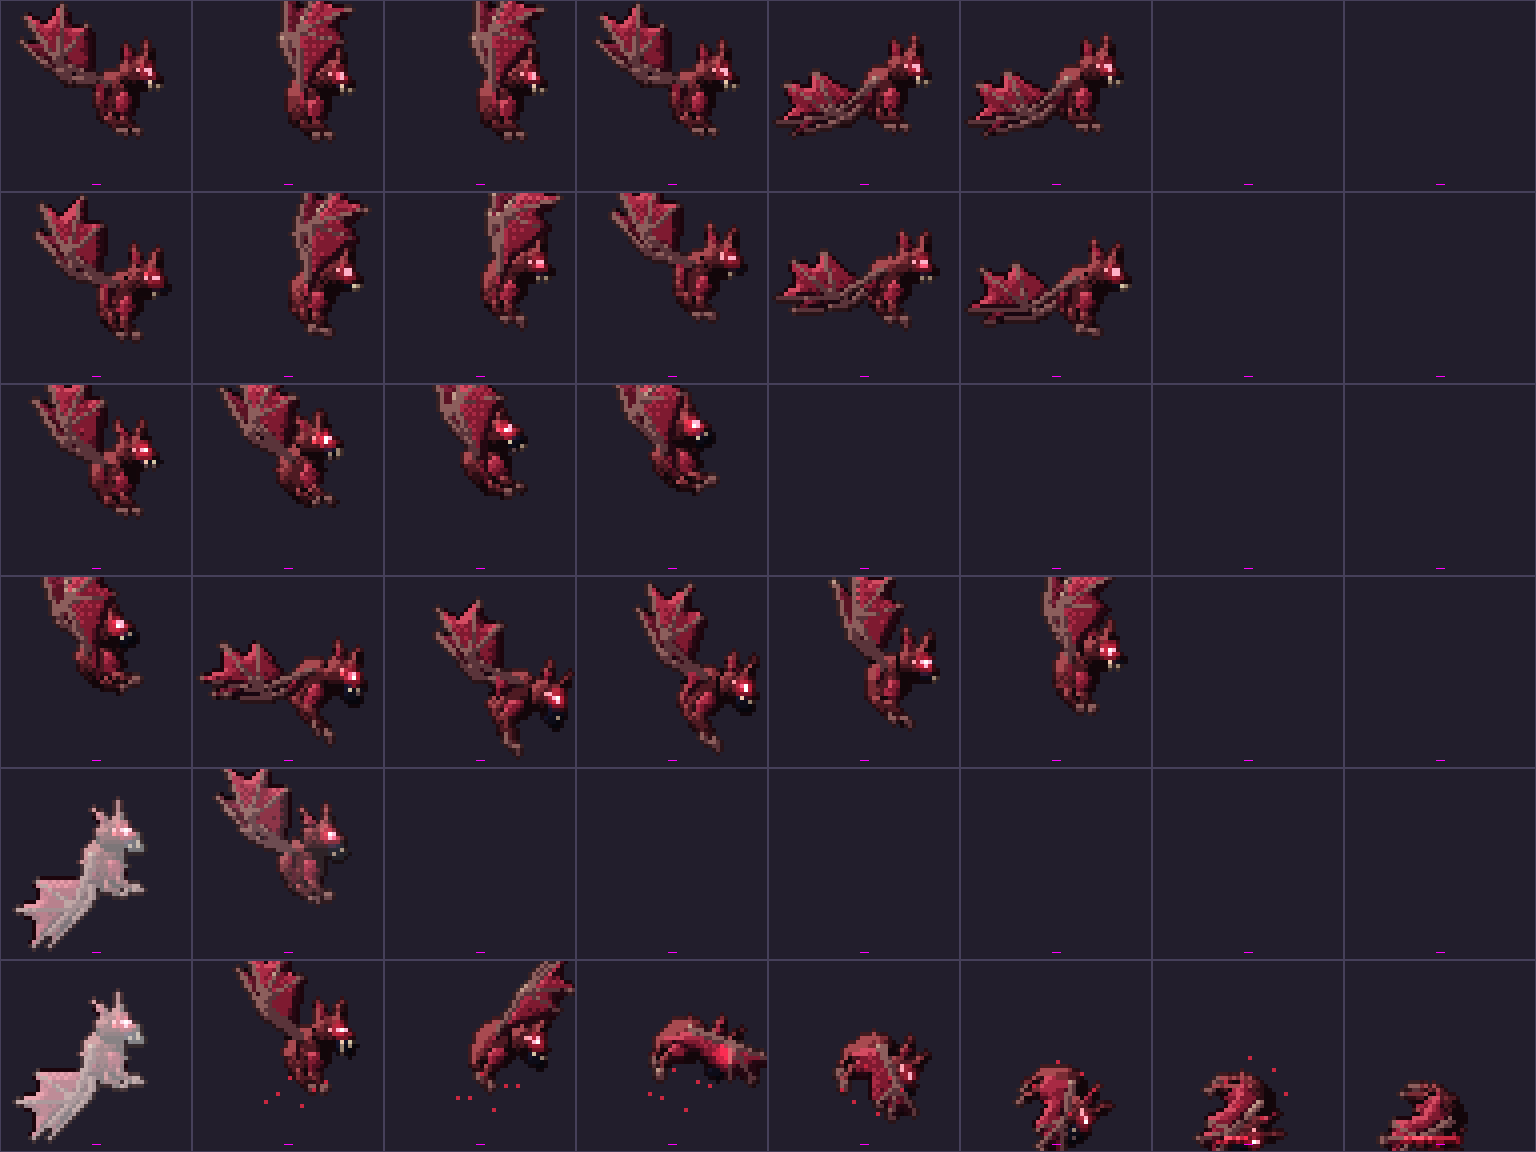
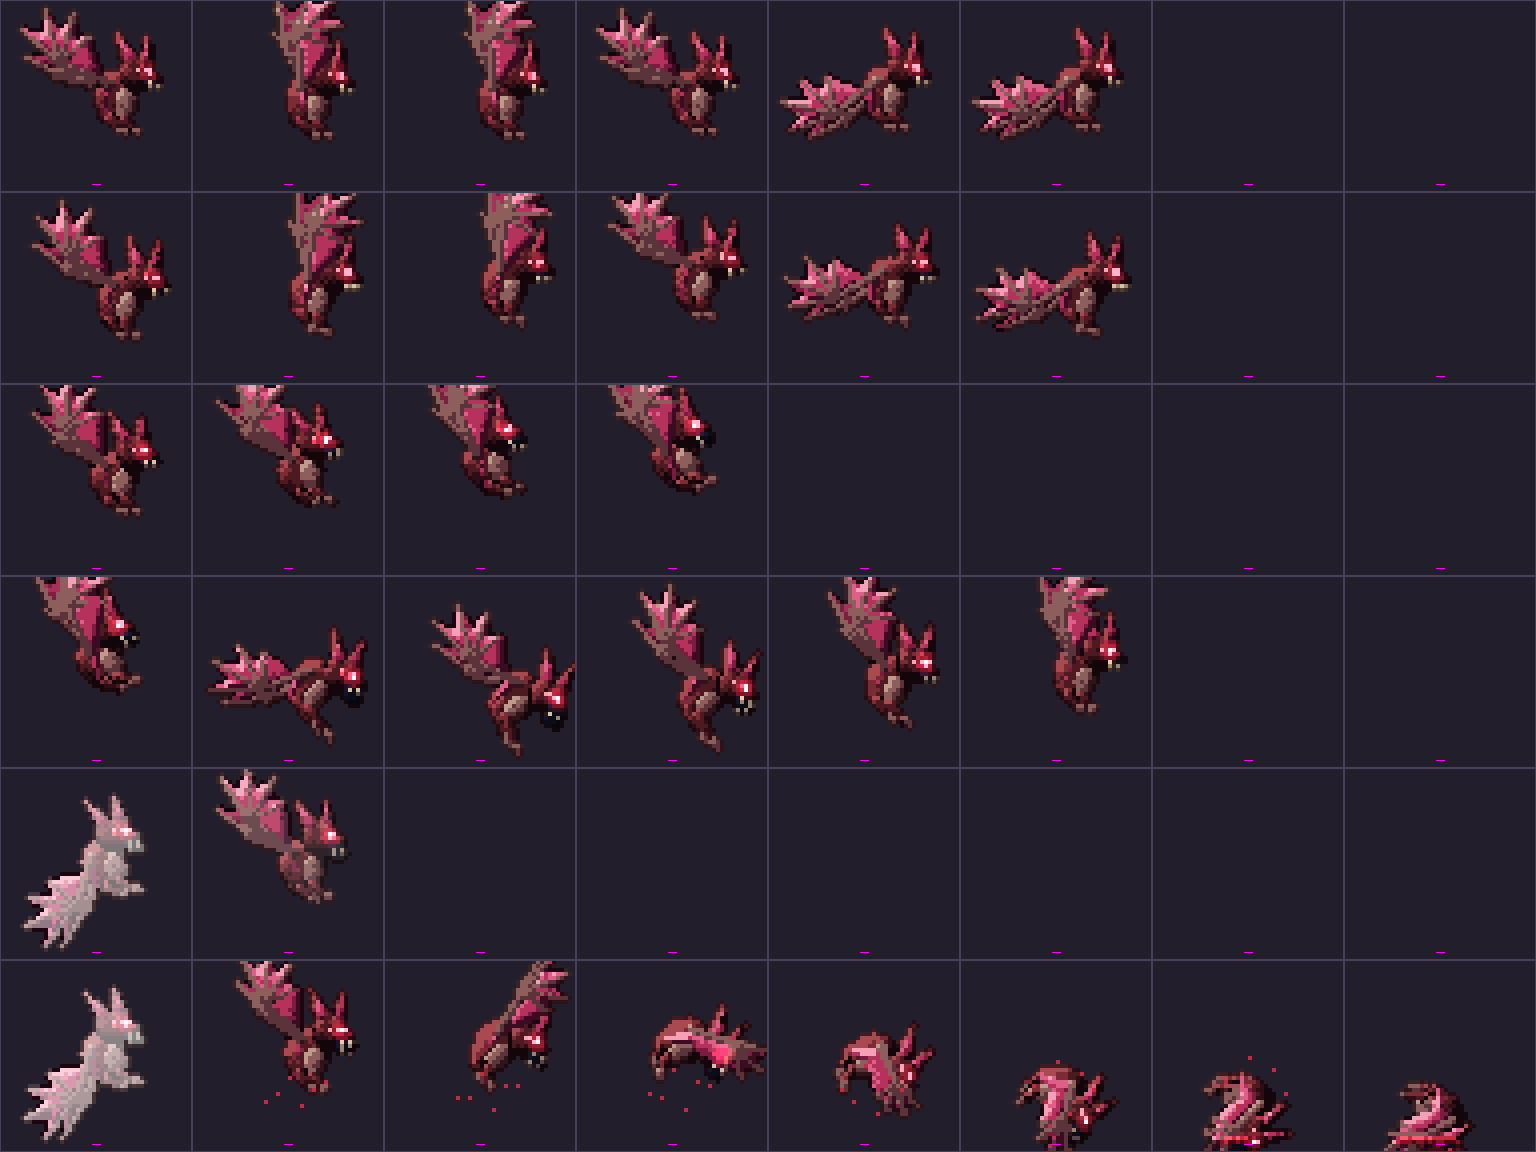
Enemigos (piloto): murcielago con alas grandes de 4 dedos y membrana clara, orejas y colmillos
Claude-Session: https://claude.ai/code/session_011eeWNo3MRZcztybaatA5Az

diff --git a/tools/art_enemies/en_sangre.py b/tools/art_enemies/en_sangre.py
@@ -348,8 +348,8 @@ def death_bruja_s(c, i, n):
 
 # ------------------------------------------------------------------ MURCIELAGO
 BATF = Mat(ramp=['#12060a', '#2c0e14', '#4e1a22', '#7a2c34', '#a84a50'], bevel=2.4, tex=0.35, ts=1.2, seed=121, bias=0.5)
-BATM = Mat(ramp=['#240812', '#4e0f20', '#7e1a30', '#a82a44', '#d44c62'], bevel=1.4, dith=0.5, outcol='#1c050c')
-BATM_B = Mat(ramp=['#180610', '#380c18', '#5a1424', '#80203a'], bevel=1.4, dith=0.5, outcol='#120409')
+BATM = Mat(ramp=['#3a0c22', '#7a1c40', '#b4325c', '#de5f88', '#f6a0b8'], bevel=1.8, dith=0.35, outcol='#1c050c')
+BATM_B = Mat(ramp=['#240814', '#4e1228', '#7c2040', '#a63058'], bevel=1.6, dith=0.4, outcol='#120409')
 BATBONE = Mat(ramp=['#2c1418', '#5a343a', '#8c5e5c', '#c09a8a'], bevel=0.8, dith=0.2)
 
 
@@ -371,29 +371,28 @@ def mur_pose(a, i, n):
 
 
 def bat_wing(c, S, wang, L1, L2, mem, bone, sweep):
+    """Ala de murcielago (rediseno fase 3): brazo + 4 dedos con membrana festoneada profunda y garra en el pulgar."""
     W = (S[0] + L1 * math.cos(wang), S[1] + L1 * math.sin(wang))
     tips = []
-    for off in (-0.35, 0.35, 0.95):
+    for off, sc in ((-0.55, 1.0), (0.0, 1.05), (0.55, 0.95), (1.1, 0.72)):
         ang = wang + sweep + off
-        tips.append((W[0] + L2 * math.cos(ang) * (1.0 if off < 0.9 else 0.8), W[1] + L2 * math.sin(ang) * (1.0 if off < 0.9 else 0.8)))
-    lowp = (S[0] - 1, S[1] + 8)
-    # festoneado
+        tips.append((W[0] + L2 * sc * math.cos(ang), W[1] + L2 * sc * math.sin(ang)))
+    lowp = (S[0] - 1.5, S[1] + 9)
     pts = [S, W, tips[0]]
     for k in range(3):
-        a_, b_ = tips[k], tips[min(k + 1, 2)] if k < 2 else lowp
-        if k < 2:
-            mid = ((tips[k][0] + tips[k + 1][0]) / 2, (tips[k][1] + tips[k + 1][1]) / 2)
-            mid = (lerp(mid[0], W[0], 0.30), lerp(mid[1], W[1], 0.30))
-            pts += [mid, tips[k + 1]]
-    mid = ((tips[2][0] + lowp[0]) / 2, (tips[2][1] + lowp[1]) / 2)
-    pts += [(lerp(mid[0], W[0] * 0.5 + S[0] * 0.5, 0.35), lerp(mid[1], W[1] * 0.3 + S[1] * 0.7, 0.35)), lowp]
-    with c.part(mem, line=0.0, bevel=1.6) as p:
+        mid = ((tips[k][0] + tips[k + 1][0]) / 2, (tips[k][1] + tips[k + 1][1]) / 2)
+        mid = (lerp(mid[0], W[0], 0.38), lerp(mid[1], W[1], 0.38))      # festones mas profundos
+        pts += [mid, tips[k + 1]]
+    mid = ((tips[3][0] + lowp[0]) / 2, (tips[3][1] + lowp[1]) / 2)
+    pts += [(lerp(mid[0], S[0], 0.45), lerp(mid[1], S[1], 0.35)), lowp]
+    with c.part(mem, line=0.0, bevel=1.8) as p:
         p.poly(pts)
     with c.part(bone, bevel=0.5) as p:
-        p.tube([S, W], 1.0, 0.7)
+        p.tube([S, W], 1.1, 0.8)
         for t_ in tips:
-            p.tube([W, t_], 0.7, 0.25)
-    return W, tips
+            p.tube([W, t_], 0.8, 0.25)
+        d = (math.cos(wang - 0.5), math.sin(wang - 0.5))               # pulgar con garra
+        p.tube([W, (W[0] + d[0] * 3.2, W[1] + d[1] * 3.2 - 1.2)], 0.8, 0.2)
 
 
 def murc_body(c, P, a='idle', wings=True):
@@ -404,13 +403,14 @@ def murc_body(c, P, a='idle', wings=True):
         S = (-1.5, -3)
         if wings:
             wa_far = -3.0 + 1.1 * w * (1 - fold) + 3.0 * fold
-            bat_wing(c, (S[0] + 1.5, S[1] + 0.5), wa_far, 13 * (1 - 0.3 * fold), 14 * (1 - 0.4 * fold), BATM_B, BATBONE, 0.7 * (1 - fold) + 0.2)
+            bat_wing(c, (S[0] + 1.5, S[1] + 0.5), wa_far, 12.5 * (1 - 0.3 * fold), 12.5 * (1 - 0.4 * fold), BATM_B, BATBONE, 0.7 * (1 - fold) + 0.2)
         # cuerpo peludo
         with c.part(BATF, line=0.5, bevel=3.0) as p:
             p.ell(0, 0, 5.2, 6.2)
             p.ell(-0.5, 4, 3.4, 3.0)
-        with c.part(BATM, bevel=0.8) as p:
-            p.ell(2, 2.4, 2.0, 3.0)
+        with c.part(BATBONE, bevel=1.0) as p:
+            p.ell(2.2, 2.0, 2.4, 3.6)
+            p.poly([(0.6, 5.2), (2.2, 8.0), (3.4, 5.0)])
         # patas con garras
         cl = P['claw']
         for dx_ in (-1.5, 1.8):
@@ -424,10 +424,11 @@ def murc_body(c, P, a='idle', wings=True):
             with c.part(BATF, line=0.5, bevel=2.2) as p:
                 p.ell(0, 0, 4.4, 4.0)
                 p.poly([(1.5, -1.5), (6, 0.5), (5.5, 2.6), (1, 2.8)])
-                p.poly([(-2.6, -2.5), (-3.6, -8.5), (0.2, -3.6)])
-                p.poly([(0.8, -3.4), (2.6, -9), (3.6, -2.6)])
+                p.poly([(-3.4, -2.2), (-5.4, -11.0), (0.6, -3.6)])
+                p.poly([(0.8, -3.4), (2.6, -10.6), (3.8, -2.4)])
             with c.part(BATM, bevel=0.6) as p:
-                p.poly([(-2.3, -3), (-3, -6.8), (-0.2, -3.6)])
+                p.poly([(-2.9, -3.0), (-4.2, -8.8), (-0.2, -3.8)])
+                p.poly([(1.4, -3.6), (2.6, -8.6), (3.2, -3.4)])
             with c.part(DARK) as p:
                 p.poly([(2.0, 1.6), (6.2, 2.0), (6, 2.6 + P['mouth'] * 0.9), (2.4, 3.0 + P['mouth'] * 0.7)])
             with c.part(BEYE) as p:
@@ -435,11 +436,11 @@ def murc_body(c, P, a='idle', wings=True):
                 p.ell(0.3, -0.7, 0.7, 0.6)
             c.glow(3, -0.6, 3.2, RED, 0.35 + 0.45 * P['eye'])
             with c.part(BONEC, bevel=0.4) as p:
-                p.poly([(2.8, 2.2), (3.4, 2.2), (3.1, 3.8 + P['mouth'] * 0.5)])
-                p.poly([(5.0, 2.2), (5.6, 2.3), (5.2, 3.9 + P['mouth'] * 0.5)])
+                p.poly([(2.6, 2.2), (3.6, 2.2), (3.1, 4.2 + P['mouth'] * 0.5)])
+                p.poly([(4.9, 2.2), (5.9, 2.3), (5.3, 4.3 + P['mouth'] * 0.5)])
         if wings:
             wa = -2.75 + 1.25 * w * (1 - fold) + 2.8 * fold
-            bat_wing(c, S, wa, 14 * (1 - 0.3 * fold), 15 * (1 - 0.4 * fold), BATM, BATBONE, 0.7 * (1 - fold) + 0.2)
+            bat_wing(c, S, wa, 13.5 * (1 - 0.3 * fold), 13.5 * (1 - 0.4 * fold), BATM, BATBONE, 0.7 * (1 - fold) + 0.2)
 
 
 def draw_murcielago(c, a, i, n):
